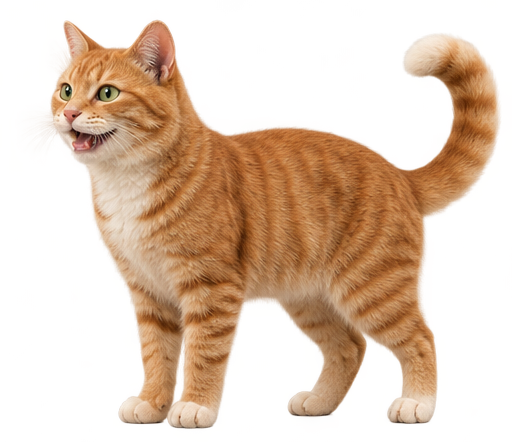
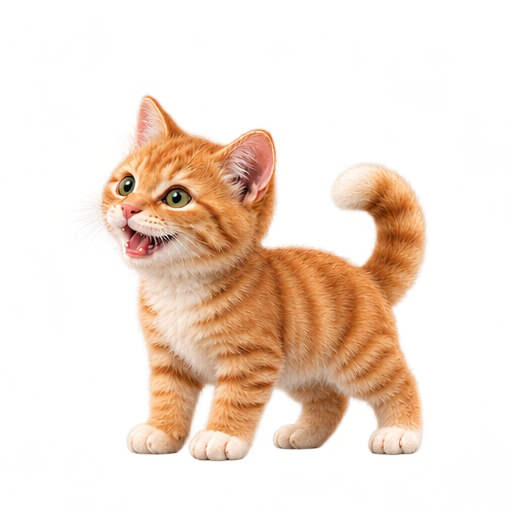
Introduce the baby family with native portraits and care previews

diff --git a/Sources/Byte/CareView.swift b/Sources/Byte/CareView.swift
@@ -144,7 +144,7 @@ struct CareView: View {
                             .scaleEffect(duckPose?.propScale ?? 1)
                             .rotationEffect(.degrees(duckPose?.propTilt ?? 0))
                             .offset(x: duckPose.map { $0.propX * sceneScale } ?? point.map { $0.x * sceneScale } ?? -58,
-                                    y: duckPose.map { $0.propY * sceneScale } ?? point.map { $0.y * sceneScale + bob } ?? (30 + bob))
+                                    y: duckPose.map { $0.propY * sceneScale } ?? point.map { $0.y * sceneScale + bob } ?? (!reduceMotion && phase.isMultiple(of: 2) ? 45 : 30))
                             .animation(reduceMotion ? nil : .easeInOut(duration: 0.25), value: phase)
                     }
                 }

diff --git a/Sources/Byte/Props.swift b/Sources/Byte/Props.swift
@@ -66,6 +66,7 @@ enum CareProp {
 enum CarePropPlacement {
     /// Returns a prop center in the notch sprite's 0.90 scale coordinates.
     /// Larger scenes scale the point with the animal. Puddle uses its full duck pose instead.
+    /// Other routines return nil to retain their existing choreography.
     static func point(for action: CareAction, companion: Companion) -> CGPoint? {
         switch action {
         case .meal, .snack:

diff --git a/README.md b/README.md
@@ -6,7 +6,7 @@
 
 **Little friends. A cozier Mac.**
 
-Six lifelike virtual pets with animated care, their own daily routines, and optional Claude or ChatGPT chat.
+Six lifelike baby animals with animated care, their own daily routines, and optional Claude or ChatGPT chat.
 
 <br>
 
@@ -24,7 +24,7 @@ Six lifelike virtual pets with animated care, their own daily routines, and opti
 
 ---
 
-Nooklings gives your Mac a little companion to care for. Meet **Byte** the T-Rex, **Ripple** the dolphin, **Biscuit** the dog, **Miso** the cat, **Bao** the panda, and **Puddle** the duckling. Each friend has lifelike expressions, favorite foods, playful activities, and a cozy way to rest. Their needs, age, and care history are saved separately.
+Nooklings gives your Mac a little companion to care for. Meet **Niblet** the T-Rex hatchling, **Bubbles** the dolphin calf, **Waffles** the golden retriever puppy, **Mochi** the tabby kitten, **Pebble** the panda cub, and **Puddle** the duckling. Each baby has lifelike expressions, favorite foods, playful activities, and a cozy way to curl up for a nap. Their needs, age, and care history are saved separately.
 
 They live just below your Mac’s notch, or wherever you drag them. When you want help with a question, an image, or web research, open the optional Claude or ChatGPT panel. Nooklings also works on Macs without a notch.
 
@@ -41,26 +41,28 @@ Click to chat, or press **⌃⌥Space** from any app. Hover to care. Drag to mak
 
 <table>
 <tr>
-<td align="center" width="33%"><img src="docs/assets/companions/trex.png" width="160" alt="Byte, a lifelike green T-Rex"><br><strong>Byte</strong><br>T-Rex<br><em>Small arms. Big heart.</em></td>
-<td align="center" width="33%"><img src="docs/assets/companions/dolphin.png" width="160" alt="Ripple, a silver bottlenose dolphin"><br><strong>Ripple</strong><br>Dolphin<br><em>A little wave of wonder.</em></td>
-<td align="center" width="33%"><img src="docs/assets/companions/dog.png" width="160" alt="Biscuit, a golden retriever"><br><strong>Biscuit</strong><br>Golden retriever<br><em>Your golden-hour best friend.</em></td>
+<td align="center" width="33%"><img src="docs/assets/companions/trex.png" width="160" alt="Niblet, a round green T-Rex hatchling with big curious eyes and tiny arms"><br><strong>Niblet</strong><br>T-Rex hatchling<br><em>Tiny teeth. Giant cuddles.</em></td>
+<td align="center" width="33%"><img src="docs/assets/companions/dolphin.png" width="160" alt="Bubbles, a silver bottlenose dolphin calf with little flippers"><br><strong>Bubbles</strong><br>Dolphin calf<br><em>Little flippers. Big wonder.</em></td>
+<td align="center" width="33%"><img src="docs/assets/companions/dog.png" width="160" alt="Waffles, a fluffy golden retriever puppy with floppy ears and soft paws"><br><strong>Waffles</strong><br>Golden retriever puppy<br><em>Little paws. Whole-heart wags.</em></td>
 </tr>
 <tr>
-<td align="center" width="33%"><img src="docs/assets/companions/cat.png" width="160" alt="Miso, an orange tabby cat"><br><strong>Miso</strong><br>Tabby cat<br><em>Curiosity, with a side of mischief.</em></td>
-<td align="center" width="33%"><img src="docs/assets/companions/panda.png" width="160" alt="Bao, a giant panda"><br><strong>Bao</strong><br>Giant panda<br><em>Slow mornings. Happy tumbles.</em></td>
+<td align="center" width="33%"><img src="docs/assets/companions/cat.png" width="160" alt="Mochi, a tiny orange tabby kitten with fuzzy stripes and cream mittens"><br><strong>Mochi</strong><br>Tabby kitten<br><em>Pocket-sized purrs.</em></td>
+<td align="center" width="33%"><img src="docs/assets/companions/panda.png" width="160" alt="Pebble, a fluffy panda cub with round ears and little paws"><br><strong>Pebble</strong><br>Giant panda cub<br><em>A little fluff. A lot of hugs.</em></td>
 <td align="center" width="33%"><img src="docs/assets/companions/duck.png" width="160" alt="Puddle, a fluffy yellow Pekin duckling with tiny wings and orange webbed feet"><br><strong>Puddle</strong><br>Pekin duckling<br><em>Tiny waddles. Big feelings.</em></td>
 </tr>
 </table>
 
 Choose a friend from **Care**, available on the hover bar or right-click menu. See the [companion guide](docs/COMPANIONS.md) for their care routines. Your current companion stays selected on upgrade, and your original `pet.json` stays intact. Each friend’s needs continue to advance with elapsed time when you return to them.
 
+Already caring for a Nookling? Byte is now **Niblet**, Ripple is **Bubbles**, Biscuit is **Waffles**, Miso is **Mochi**, and Bao is **Pebble**. Their new baby faces and names carry forward the same needs, age, nap progress, and care history. Puddle keeps the name and duckling look you know.
+
 | Companion | Food & treat | Hydration / refresh | Play & gentle activity | Rest |
 | --- | --- | --- | --- | --- |
-| **Byte · T-Rex** | Prime bites · turkey morsels | Watering hole | Stomp chase · scent trail | 5-minute nest nap |
-| **Ripple · dolphin** | Fish school · squid snack | Splash refresh for skin freshness; fish also restores moisture | Hoop dive · bubble chase | 4-minute quiet drift |
-| **Biscuit · dog** | Dinner bowl · crunchy biscuit | Refilled water bowl | Fetch · sniff safari | 5-minute cozy nap |
-| **Miso · cat** | Salmon supper · chicken nibbles | Fresh drinking fountain | Feather pounce · sunbeam chase | 3-minute catnap |
-| **Bao · panda** | Bamboo buffet · apple slices | Forest spring | Bamboo roll · leaf puzzle | 6-minute bamboo snooze |
+| **Niblet · hatchling** | Hatchling bites · turkey morsels | Watering hole | Stomp chase · scent trail | 5-minute nest nap |
+| **Bubbles · calf** | Little fish bites · squid snack | Splash refresh for skin freshness; fish also restores moisture | Hoop dive · bubble chase | 4-minute quiet drift |
+| **Waffles · puppy** | Puppy supper · crunchy biscuit | Refilled water bowl | Fetch · sniff safari | 5-minute cozy nap |
+| **Mochi · kitten** | Kitten salmon · chicken nibbles | Fresh drinking fountain | Feather pounce · sunbeam chase | 3-minute catnap |
+| **Pebble · cub** | Tender bamboo · apple slices | Forest spring | Bamboo roll · leaf puzzle | 6-minute bamboo snooze |
 | **Puddle · duckling** | Duckling crumble · pea nibbles | Fresh-water bill dip & splash | Lily-pad paddle · duckweed hunt | 4-minute reed-nest snooze |
 
 Puddle brings happy waddles, little bill dips, quiet peeps, and a tucked-in sleeping pose. Duckweed hunts restore a little fullness as well as joy, and the cozy reed nest stays visible through the snooze.
@@ -68,7 +70,7 @@ Puddle brings happy waddles, little bill dips, quiet peeps, and a tucked-in slee
 Food and water replenish needs up to 100%; play uses energy. Hungry, thirsty, or exhausted friends ask for care before energetic games. Rest recovers energy over time, including while the app is closed; **Wake gently** keeps only the energy already recovered. These are playful virtual-pet routines. Care works locally and never requires AI credits.
 
 <p align="center">
-<img src="docs/assets/care-byte-dark.png" width="320" alt="Byte’s care dashboard in dark mode, with needs, meals, games, and rest">
+<img src="docs/assets/care-byte-dark.png" width="320" alt="Niblet’s care dashboard in dark mode, with all six babies, needs, meals, games, and rest">
 <img src="docs/assets/care-puddle-light.png" width="320" alt="Puddle’s care dashboard in light mode, with all six companions, duckling crumble, bill dips, lily-pad paddling, and nest rest">
 </p>
 
@@ -82,8 +84,8 @@ The quick controls and dashboard run the same animations and award care once at 
 
 ### 🐾 A little routine with your companion
 
-- **Six lifelike companions** with neutral, happy, thinking, eating, drinking, and sleeping expressions. Each animal brings its own care movements, quiet sound cues, and friendly reactions.
-- **A modern care dashboard** with fullness, hydration (freshness for Ripple), energy, joy, suggested actions, and recent moments. Each companion keeps separate needs, age, care history, and rest progress.
+- **Six lifelike baby companions** with neutral, happy, thinking, eating, drinking, and sleeping expressions. Each animal brings its own care movements, quiet sound cues, and friendly reactions.
+- **A modern care dashboard** with fullness, hydration (freshness for Bubbles), energy, joy, suggested actions, and recent moments. Each companion keeps separate needs, age, care history, and rest progress.
 - **Species-specific care** with two foods, two play activities, water or splash refreshes, affection, and timed naps. Smooth props and quiet synthesized cues replace the pixel objects. Reduce Motion keeps care functional with static expressions.
 - **Optional check-ins** and adjustable puns, from off to lots.
 - **A home under the notch**, or wherever you drag them. Their pinned position is remembered; a right-click resets it.
@@ -205,7 +207,7 @@ A few things to try:
 - “Explain the error in this screenshot.” Paste an image, then ask.
 - “Find the official documentation for this API.” Enable web search for source links.
 - “Help me simplify this Swift function.” Paste code and copy the suggested result.
-- Bring Bao a bamboo buffet, help Ripple splash, or take Puddle on a duckweed hunt.
+- Bring Pebble some tender bamboo, help Bubbles splash, or take Puddle on a duckweed hunt.
 
 The companion window sits **below** the physical notch cutout. Dragging your companion lets you choose a different spot on your display.
 
@@ -255,7 +257,7 @@ Nooklings stores conversations, pet state, and attachments under `~/.config/byte
 ```text
 ~/.config/byte/
 ├── history.json                 # Current conversation
-├── pet.json                     # Byte’s original needs, age, rest, and care history
+├── pet.json                     # Niblet’s needs and history, preserved from Byte
 ├── pet-{animal}.json            # Separate dolphin, dog, cat, panda, and duck state
 ├── archives/
 │   └── chat-<timestamp>-<UUID>.json

diff --git a/docs/COMPANIONS.md b/docs/COMPANIONS.md
@@ -2,24 +2,46 @@
 
 [See all six portraits and the care dashboard](../README.md#meet-the-nooklings).
 
-Open **Care** from the hover bar or the companion’s right-click menu. Choose Byte, Ripple, Biscuit, Miso, Bao, or Puddle in the two-row picker at the top. The selected companion is remembered on the next launch.
+Open **Care** from the hover bar or the companion’s right-click menu. Choose Niblet, Bubbles, Waffles, Mochi, Pebble, or Puddle in the two-row picker at the top. The selected companion is remembered on the next launch.
 
 | Friend | Meals and treats | Refresh | Activities | Recovery |
 | --- | --- | --- | --- | --- |
-| Byte, T-Rex | Prime bites; turkey morsels | A watering hole | Stomp chase; scent trail; chin scritches | Five-minute nest nap |
-| Ripple, dolphin | Fish school; squid snack | Skin freshness from splashing; fish also adds moisture | Hoop dives; bubble chase; a friendly hello | Four-minute quiet drift |
-| Biscuit, golden retriever | Dinner bowl; crunchy biscuit | Refill the water bowl | Fetch; sniff safari; belly rub | Five-minute cozy nap |
-| Miso, tabby cat | Salmon supper; chicken nibbles | A fresh running fountain | Feather pounce; sunbeam chase; chin rub | Three-minute catnap |
-| Bao, giant panda | Bamboo buffet; apple slices | Cool forest spring | Bamboo roll; leaf puzzle; gentle pat | Six-minute bamboo snooze |
+| Niblet, T-Rex hatchling | Hatchling bites; turkey morsels | A watering hole | Stomp chase; scent trail; chin scritches | Five-minute nest nap |
+| Bubbles, dolphin calf | Little fish bites; squid snack | Skin freshness from splashing; fish also adds moisture | Hoop dives; bubble chase; a friendly hello | Four-minute quiet drift |
+| Waffles, golden retriever puppy | Puppy supper; crunchy biscuit | Refill the water bowl | Fetch; sniff safari; belly rub | Five-minute cozy nap |
+| Mochi, tabby kitten | Kitten salmon; chicken nibbles | A fresh running fountain | Feather pounce; sunbeam chase; chin rub | Three-minute catnap |
+| Pebble, giant panda cub | Tender bamboo; apple slices | Cool forest spring | Bamboo roll; leaf puzzle; gentle pat | Six-minute bamboo snooze |
 | Puddle, Pekin duckling | Duckling crumble; pea nibbles | Fresh-water bill dip and splash | Lily-pad paddle; duckweed hunt; cheek nuzzle | Four-minute reed-nest snooze |
 
-The four meters show **satisfied needs**, so a high Fullness or Hydration value is good. Ripple uses Freshness in place of Hydration. Meals, snacks, replenishment, energy costs, recovery rates, and passive decay vary by species. Controls explain when a friend needs food, water, or rest before an activity.
+The four meters show **satisfied needs**, so a high Fullness or Hydration value is good. Bubbles uses Freshness in place of Hydration. Meals, snacks, replenishment, energy costs, recovery rates, and passive decay vary by species. Controls explain when a friend needs food, water, or rest before an activity.
 
 Both the quick bar and the dashboard trigger the same animated actions. Each meal, game, or refresh is counted once when the interaction finishes. Closing the dashboard lets the scene finish beside the notch. Quitting before the payoff cancels that unfinished action. Reduce Motion uses a static expression and short feedback instead of the movement; care still completes.
 
-Naps recover energy gradually. They continue while the app is closed, and **Wake gently** keeps the energy earned so far. Switching pets keeps each friend’s age, needs, rest schedule, and last five care moments. Byte still uses the original `~/.config/byte/pet.json`; the other companions use `pet-dolphin.json`, `pet-dog.json`, `pet-cat.json`, `pet-panda.json`, and `pet-duck.json`. An unreadable save is preserved and its error appears in Care.
+Naps recover energy gradually. They continue while the app is closed, and **Wake gently** keeps the energy earned so far. Switching pets keeps each friend’s age, needs, rest schedule, and last five care moments. Niblet still uses Byte’s original `~/.config/byte/pet.json`; the other companions use `pet-dolphin.json`, `pet-dog.json`, `pet-cat.json`, `pet-panda.json`, and `pet-duck.json`. An unreadable save is preserved and its error appears in Care.
 
 The chat persona follows the selected animal. Conversation history, credentials, and settings remain shared by Nooklings. Selection is paused during a care action or streaming reply. Pet care uses no network calls or AI credits.
+
+## Baby faces, familiar friends
+
+The original five companions have new baby names and lifelike baby artwork:
+
+| Previous name | Baby friend | Little details |
+| --- | --- | --- |
+| Byte | **Niblet** | A round green hatchling with tiny arms, curious eyes, and a tucked-in tail at nap time |
+| Ripple | **Bubbles** | A silver dolphin calf with little flippers and a soft, inquisitive face |
+| Biscuit | **Waffles** | A fluffy golden puppy with floppy ears, soft paws, and a sleepy curl |
+| Miso | **Mochi** | A tiny orange tabby kitten with fuzzy stripes, cream mittens, and pocket-sized purrs |
+| Bao | **Pebble** | A cuddly panda cub with round ears, little paws, and a cozy sleeping pose |
+
+All five keep their existing food, refresh, play, affection, and timed-rest mechanics. The new names and appearances preserve the saved selection and each animal’s needs, age, rest progress, and care moments. The day counter continues tracking your time together. Puddle keeps the same duckling artwork and routines.
+
+<p align="center">
+<img src="assets/waffles-rest.png" width="230" alt="Waffles curled into a sleepy puppy ball in the native care view">
+<img src="assets/mochi-rest.png" width="230" alt="Mochi asleep with tiny paws tucked beneath the chin in the native care view">
+<img src="assets/pebble-rest.png" width="230" alt="Pebble resting on soft black paws in the native care view">
+</p>
+
+*Native macOS nap previews for Waffles, Mochi, and Pebble.*
 
 ## Puddle’s little pond
 
@@ -44,8 +66,8 @@ All gains cap at 100. Puddle’s food and water decline by 8.5 and 9.5 per hour;
 
 ## Artwork and verification
 
-All six animals use bundled transparent artwork with six expressions: neutral, happy, thoughtful, eating, refreshing, and asleep. Existing tricks remain available, and each species has its own care props, movement sequence, and quiet sound palette. Companion artwork and the Nooklings app icon were generated for this update with OpenAI image generation. No runtime image service is required.
+All six baby animals use bundled transparent artwork with six expressions: neutral, happy, thoughtful, eating, refreshing, and asleep. Existing tricks remain available, and each species has its own care props, movement sequence, and quiet sound palette. Companion artwork and the Nooklings app icon were generated with OpenAI image generation. No runtime image service is required.
 
-The macOS workflow builds the app, runs the regression suite, assembles the release bundle, verifies its resources and metadata, and exports light/dark renders of each full care dashboard as the `companion-previews` artifact. The artifact also includes each of Puddle’s eight care actions with and without Reduce Motion. The exported content omits the outer scroll container so all controls can be inspected at once.
+The macOS workflow builds the app, runs the regression suite, assembles the release bundle, verifies its resources and metadata, and exports portraits and light/dark dashboards as the `companion-previews` artifact. The separate `care-previews` and `care-previews-reduced-motion` artifacts include all eight care actions for every companion under each motion policy. The exported dashboard content omits the outer scroll container so all controls can be inspected at once.
 
 Tests cover legacy decoding, independent saves, completed and interrupted actions, duplicate completion protection, sleep across relaunch, clock rollback, species differences, damaged-save preservation, all thirty-six expression assets, and native dashboard rendering. A hands-on Mac pass is still needed to judge live animation timing, audio, and interaction with the notch window.

diff --git a/docs/CODE_REVIEW.md b/docs/CODE_REVIEW.md
@@ -1,5 +1,29 @@
 # Nooklings review and validation
 
+## Baby companion makeover — October 26, 2026
+
+The five original companions now have lifelike baby artwork and new display names:
+Niblet the T-Rex hatchling, Bubbles the dolphin calf, Waffles the golden retriever
+puppy, Mochi the tabby kitten, and Pebble the panda cub. Each has six expressions,
+including eating, refreshing, and sleeping. Puddle retains the same duckling artwork.
+
+The stable species identifiers, save filenames, preference keys, and app identity
+remain in place. Existing selection, care history, needs, and offline rest continue
+with the new names. Care tuning and action reservation behavior are unchanged.
+The picker, care feedback, check-ins, chat persona, README, and companion guide use
+the baby identities.
+
+Food and refresh props share species-specific mouth anchors across the notch and
+the larger habitat. Baby expression cells are isolated before their lower poses
+are aligned with the standing baseline, preserving ears, tails, feet, and fins.
+
+Native care-render coverage now exercises all eight actions for all six companions
+under both motion policies. It compares animation phases for meal, snack, refresh,
+play, and exploration: normal motion changes the render, while Reduce Motion holds
+it still. The workflow exports these scenes alongside all light/dark dashboards and
+portraits for visual inspection. Live timing, audio, and VoiceOver remain part of
+the [installed-app pass](ACCESSIBILITY.md).
+
 ## Puddle companion — October 26, 2026
 
 [PR #6](https://github.com/ronniekai999/nooklings/pull/6) adds Puddle, a lifelike

diff --git a/docs/ACCESSIBILITY.md b/docs/ACCESSIBILITY.md
@@ -10,6 +10,7 @@ The following installed-app pass remains necessary on a Mac.
 | --- | --- |
 | VoiceOver, all six companions | The pet is discoverable by name and status, with a chat action and named Open care action. Decorative selector art is silent. |
 | Care dashboard | Names, selected companion, needs percentages, unavailable-action reasons, rest progress, and care buttons are announced. Keyboard navigation reaches every action. |
+| Baby companion makeover | Select Niblet, Bubbles, Waffles, Mochi, and Pebble. Check each expression, meal, refresh, play, and nap for clipped ears, tails, paws, or fins. Confirm the new names are announced and existing selection, care history, and nap progress survive upgrade. |
 | Puddle care | Select the duckling from the second row. Complete each food, bill dip, paddle, forage, and nuzzle; check that props follow the bill and feet, and that the nest remains during sleep. Cancel before the payoff, switch pets, and relaunch to verify independent state. Check quiet peeps with Sound effects on/off. |
 | Chat keyboard access | The global shortcut opens chat from another app/Space and focuses the composer. Repeating it refocuses without closing or losing a draft. Tab reaches Settings, Saved chats, New chat, image controls, Send/Stop, and Resize chat. |
 | Shortcut recording | Change the key combination, restart, and verify it persists. Esc cancels recording. An unmodified key is rejected; a conflicting registration reports an error and retains the previous shortcut. Disabling unregisters it. |

diff --git a/ROADMAP.md b/ROADMAP.md
@@ -4,7 +4,7 @@ Updated: October 26, 2026
 
 ## Implemented
 
-- [x] Six lifelike companions: Byte, Ripple, Biscuit, Miso, Bao, and Puddle
+- [x] Six lifelike baby companions: Niblet, Bubbles, Waffles, Mochi, Pebble, and Puddle
 - [x] Six expressions, species-specific care animations, sounds, and idle tricks
 - [x] Individual needs, food, hydration, play, timed rest, and optional check-ins
 - [x] Care dashboard, separate pet histories, and reduced-motion care
